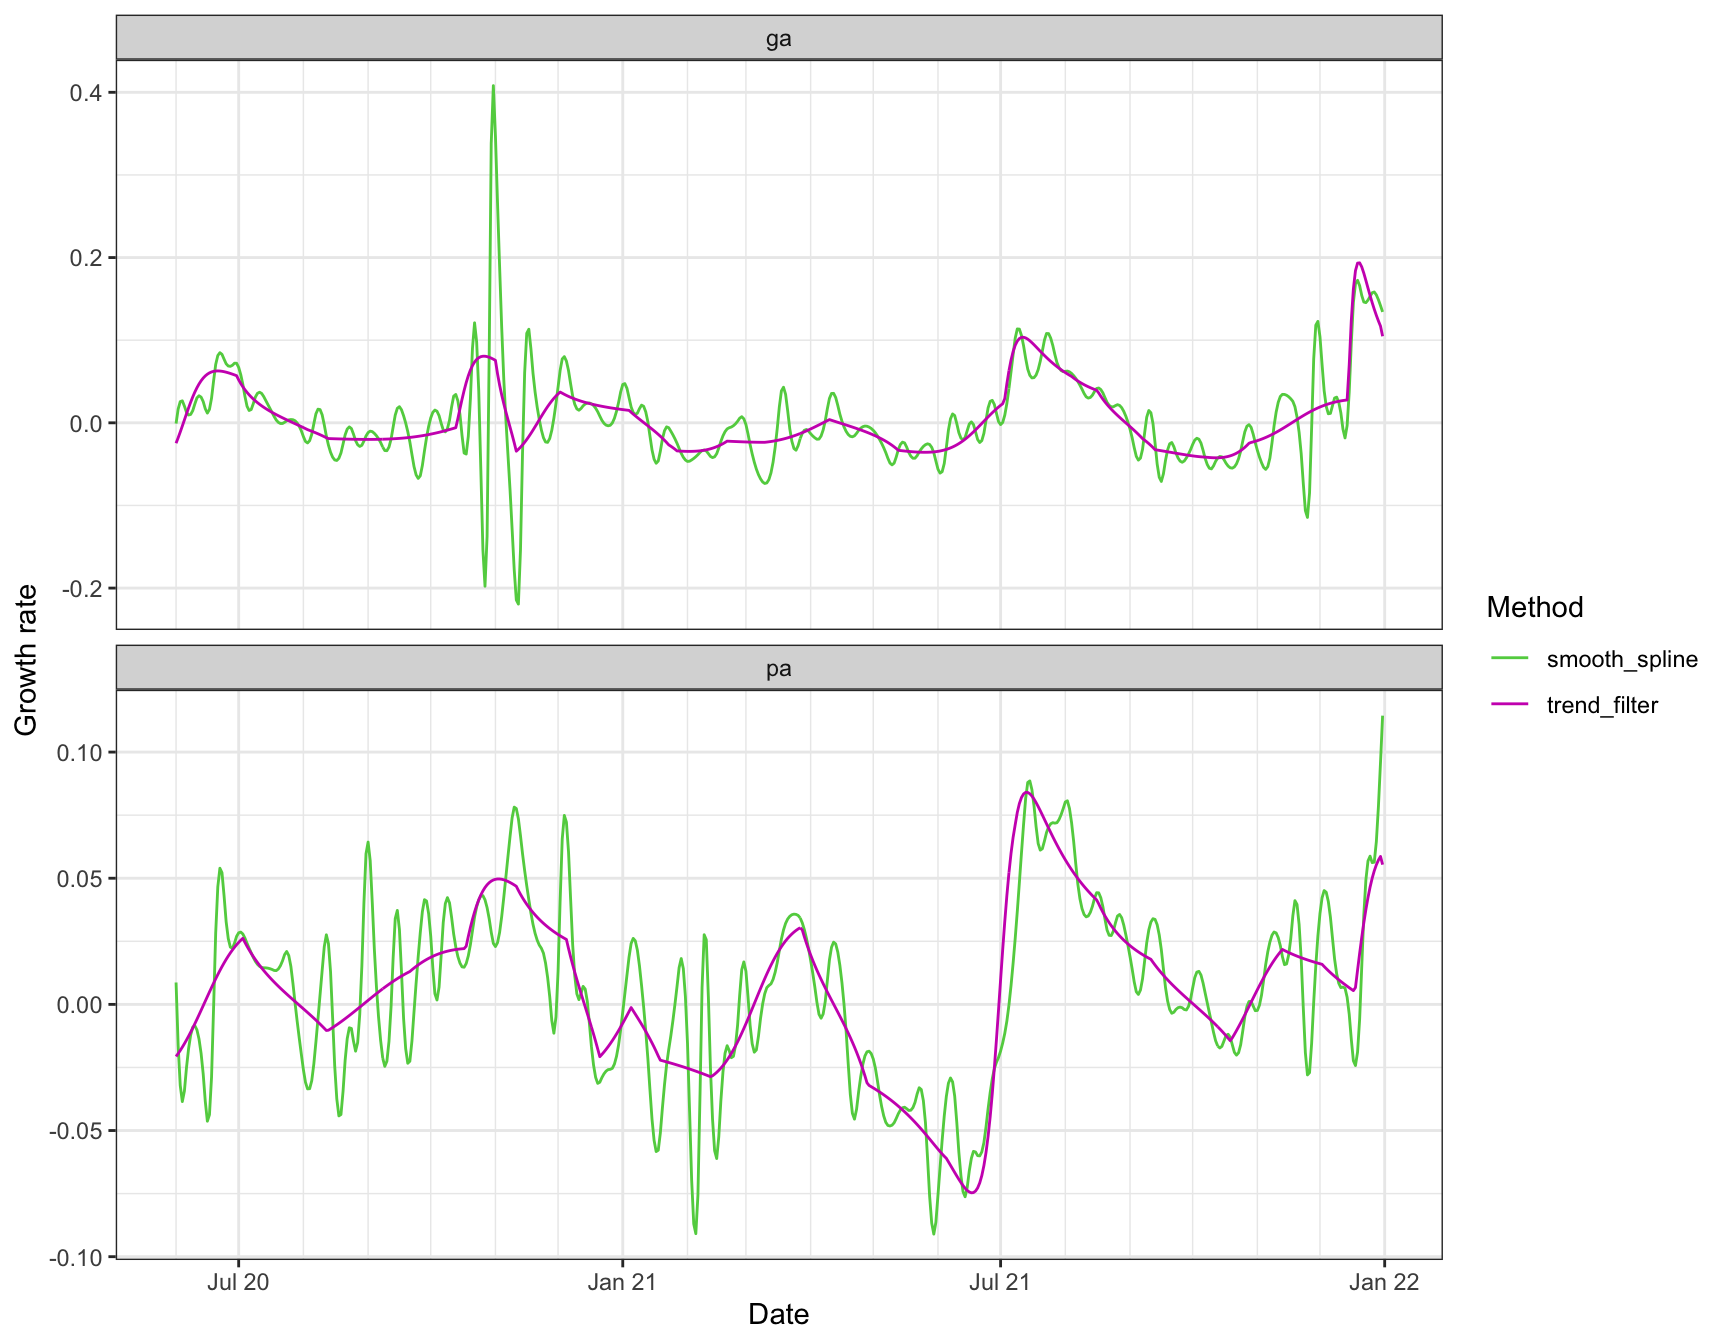
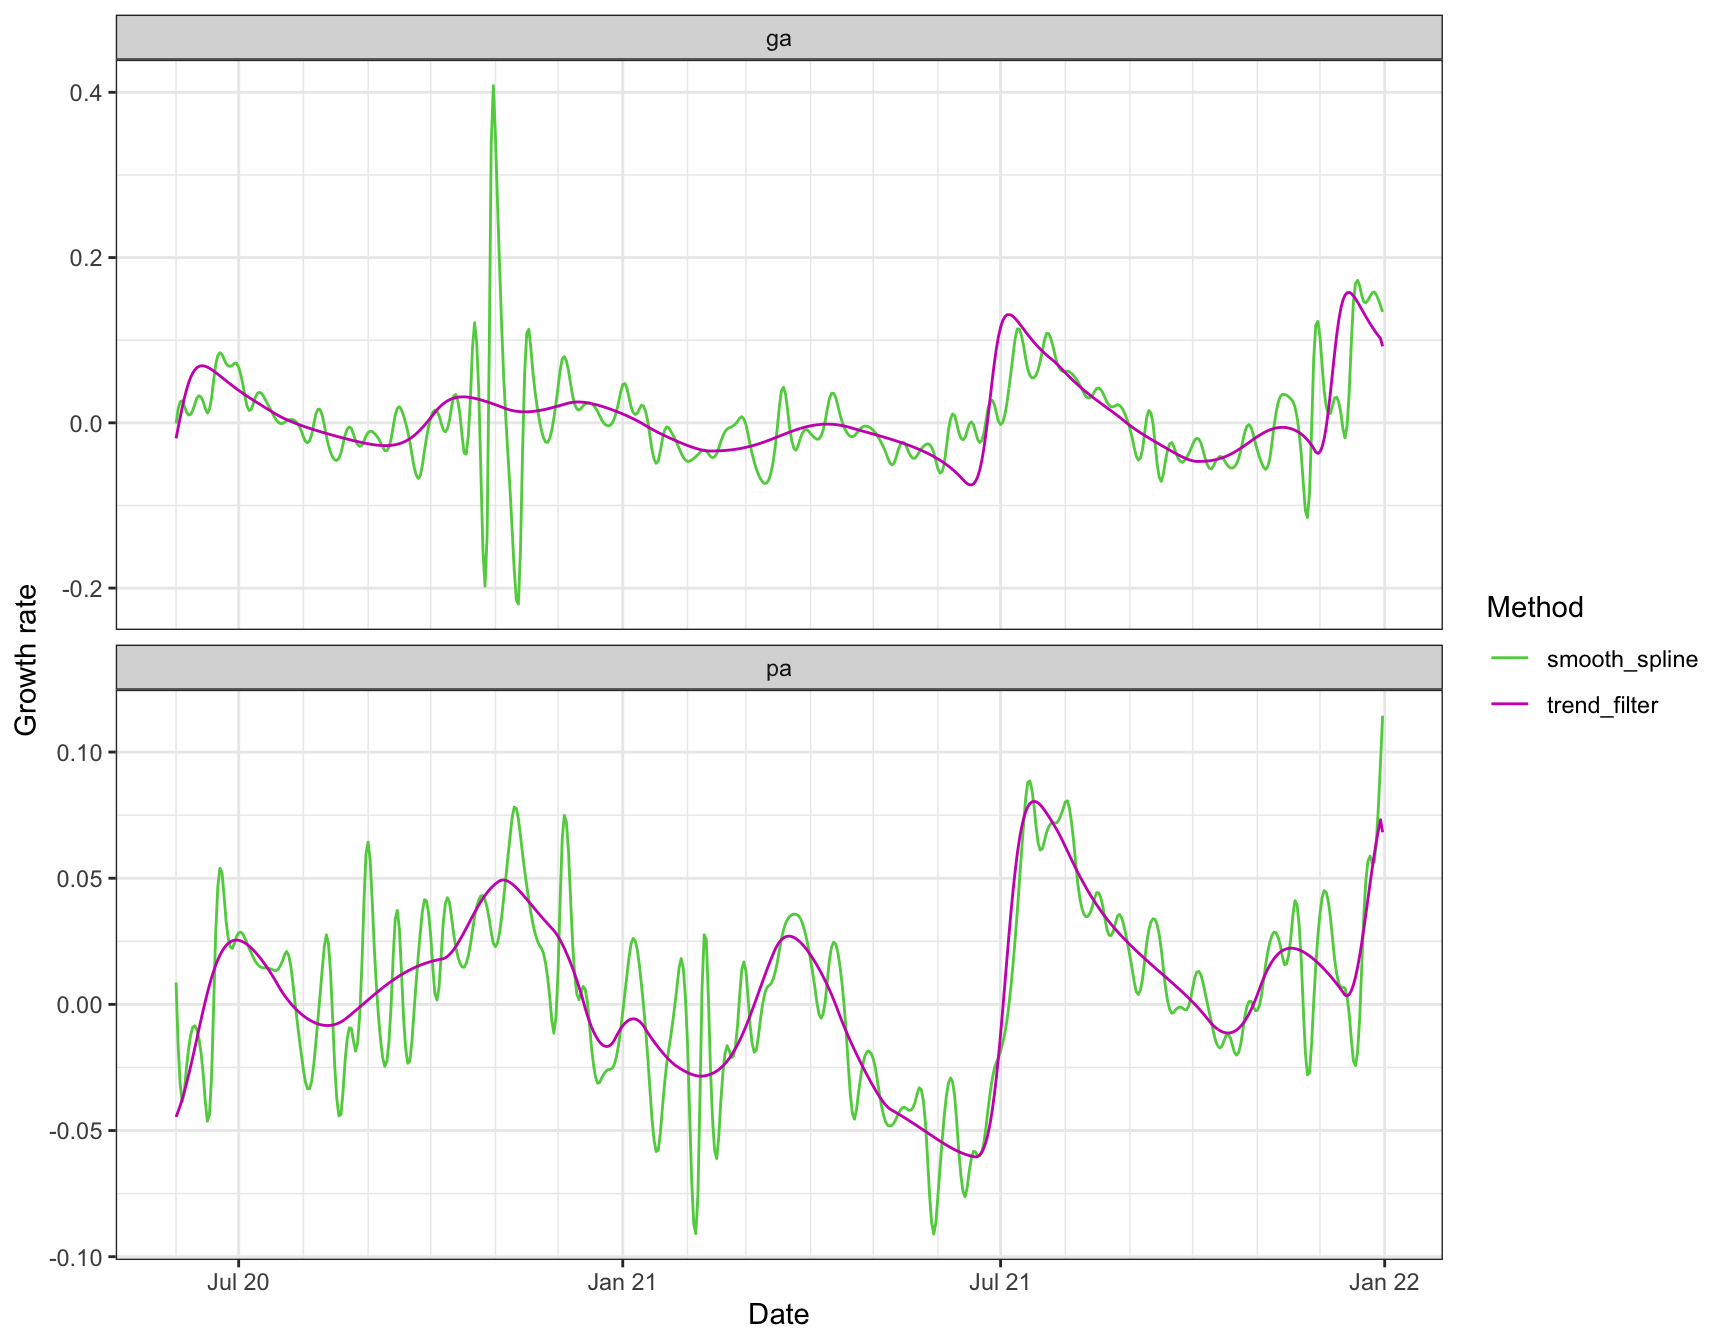
Hotfix to growth rate vignette

diff --git a/docs/articles/outliers.html b/docs/articles/outliers.html
@@ -104,7 +104,7 @@
 
     
     
-<p>This vignette describes functionality for detecting and correcting outliers in signals in the <code><a href="https://rdrr.io/pkg/epiprocess/man/detect_outlr.html">detect_outlr()</a></code> and <code>correct_outlr()</code> functions provided in the <code>epiprocess</code> package. These functions is designed to be modular and extendable, so that you can define your own outlier detection and correction routines and apply them to <code>epi_df</code> objects. We’ll demonstrate this using state-level daily reported COVID-19 case counts from FL and NJ.</p>
+<p>This vignette describes functionality for detecting and correcting outliers in signals in the <code><a href="../reference/detect_outlr.html">detect_outlr()</a></code> and <code>correct_outlr()</code> functions provided in the <code>epiprocess</code> package. These functions is designed to be modular and extendable, so that you can define your own outlier detection and correction routines and apply them to <code>epi_df</code> objects. We’ll demonstrate this using state-level daily reported COVID-19 case counts from FL and NJ.</p>
 <div class="sourceCode" id="cb1"><html><body><pre class="r"><span class="fu"><a href="https://rdrr.io/r/base/library.html">library</a></span>(<span class="no">covidcast</span>)
 <span class="fu"><a href="https://rdrr.io/r/base/library.html">library</a></span>(<span class="no">epiprocess</span>)
 <span class="fu"><a href="https://rdrr.io/r/base/library.html">library</a></span>(<span class="no">dplyr</span>)
@@ -133,13 +133,13 @@
 <div id="outlier-detection" class="section level2">
 <h2 class="hasAnchor">
 <a href="#outlier-detection" class="anchor"></a>Outlier detection</h2>
-<p>The <code><a href="https://rdrr.io/pkg/epiprocess/man/detect_outlr.html">detect_outlr()</a></code> function allows us to run multiple outlier detection methods on a given signal, and then (optionally) combine the results from those methods. Here, we’ll investigate outlier detection results from the following methods.</p>
+<p>The <code><a href="../reference/detect_outlr.html">detect_outlr()</a></code> function allows us to run multiple outlier detection methods on a given signal, and then (optionally) combine the results from those methods. Here, we’ll investigate outlier detection results from the following methods.</p>
 <ol style="list-style-type: decimal">
-<li>Detection based on a rolling median, using <code><a href="https://rdrr.io/pkg/epiprocess/man/detect_outlr_rm.html">detect_outlr_rm()</a></code>, which computes a rolling median on with a default window size of <code>n</code> time points centered at the time point under consideration, and then computes thresholds based on a multiplier times a rolling IQR computed on the residuals.</li>
-<li>Detection based on a seasonal-trend decomposition using LOESS (STL), using <code><a href="https://rdrr.io/pkg/epiprocess/man/detect_outlr_stl.html">detect_outlr_stl()</a></code>, which is similar to the rolling median method but replaces the rolling median with fitted values from STL.</li>
+<li>Detection based on a rolling median, using <code><a href="../reference/detect_outlr_rm.html">detect_outlr_rm()</a></code>, which computes a rolling median on with a default window size of <code>n</code> time points centered at the time point under consideration, and then computes thresholds based on a multiplier times a rolling IQR computed on the residuals.</li>
+<li>Detection based on a seasonal-trend decomposition using LOESS (STL), using <code><a href="../reference/detect_outlr_stl.html">detect_outlr_stl()</a></code>, which is similar to the rolling median method but replaces the rolling median with fitted values from STL.</li>
 <li>Detection based on an STL decomposition, but without seasonality term, which amounts to smoothing using LOESS.</li>
 </ol>
-<p>The outlier detection methods are specified using a <code>tibble</code> that is passed to <code><a href="https://rdrr.io/pkg/epiprocess/man/detect_outlr.html">detect_outlr()</a></code>, with one row per method, and whose columms specify the outlier detection function, any input arguments (only nondefault values need to be supplied), and an abbreviated name for the method used in tracking results. Abbreviations “rm” and “stl” can be used for the built-in detection functions <code><a href="https://rdrr.io/pkg/epiprocess/man/detect_outlr_rm.html">detect_outlr_rm()</a></code> and <code><a href="https://rdrr.io/pkg/epiprocess/man/detect_outlr_stl.html">detect_outlr_stl()</a></code>, respectively.</p>
+<p>The outlier detection methods are specified using a <code>tibble</code> that is passed to <code><a href="../reference/detect_outlr.html">detect_outlr()</a></code>, with one row per method, and whose columms specify the outlier detection function, any input arguments (only nondefault values need to be supplied), and an abbreviated name for the method used in tracking results. Abbreviations “rm” and “stl” can be used for the built-in detection functions <code><a href="../reference/detect_outlr_rm.html">detect_outlr_rm()</a></code> and <code><a href="../reference/detect_outlr_stl.html">detect_outlr_stl()</a></code>, respectively.</p>
 <div class="sourceCode" id="cb2"><html><body><pre class="r"><span class="no">detection_methods</span> <span class="kw">=</span> <span class="fu"><a href="https://dplyr.tidyverse.org/reference/bind.html">bind_rows</a></span>(
   <span class="fu"><a href="https://dplyr.tidyverse.org/reference/reexports.html">tibble</a></span>(<span class="kw">method</span> <span class="kw">=</span> <span class="st">"rm"</span>,
          <span class="kw">args</span> <span class="kw">=</span> <span class="fu"><a href="https://rdrr.io/r/base/list.html">list</a></span>(<span class="fu"><a href="https://rdrr.io/r/base/list.html">list</a></span>(<span class="kw">detect_negatives</span> <span class="kw">=</span> <span class="fl">TRUE</span>,
@@ -165,7 +165,7 @@
 <p>Additionally, we’ll form combined lower and upper thresholds, calculated as the median of the lower and upper thresholds from the methods at each time point. Note that using this combined median threshold is equivalent to using a majority vote across the base methods to determine whether a value is an outlier.</p>
 <div class="sourceCode" id="cb4"><html><body><pre class="r"><span class="no">x</span> <span class="kw">&lt;-</span> <span class="no">x</span> <span class="kw">%&gt;%</span>
   <span class="fu"><a href="https://dplyr.tidyverse.org/reference/group_by.html">group_by</a></span>(<span class="no">geo_value</span>) <span class="kw">%&gt;%</span>
-  <span class="fu"><a href="https://dplyr.tidyverse.org/reference/mutate.html">mutate</a></span>(<span class="kw">outlier_info</span>  <span class="kw">=</span> <span class="fu"><a href="https://rdrr.io/pkg/epiprocess/man/detect_outlr.html">detect_outlr</a></span>(
+  <span class="fu"><a href="https://dplyr.tidyverse.org/reference/mutate.html">mutate</a></span>(<span class="kw">outlier_info</span>  <span class="kw">=</span> <span class="fu"><a href="../reference/detect_outlr.html">detect_outlr</a></span>(
     <span class="kw">x</span> <span class="kw">=</span> <span class="no">time_value</span>, <span class="kw">y</span> <span class="kw">=</span> <span class="no">cases</span>,
     <span class="kw">methods</span> <span class="kw">=</span> <span class="no">detection_methods</span>,
     <span class="kw">combiner</span> <span class="kw">=</span> <span class="st">"median"</span>)) <span class="kw">%&gt;%</span>

diff --git a/docs/articles/growth_rate.html b/docs/articles/growth_rate.html
@@ -233,7 +233,7 @@
   <span class="fu"><a href="https://ggplot2.tidyverse.org/reference/labs.html">labs</a></span>(<span class="kw">x</span> <span class="kw">=</span> <span class="st">"Date"</span>, <span class="kw">y</span> <span class="kw">=</span> <span class="st">"Growth rate"</span>, <span class="kw">col</span> <span class="kw">=</span> <span class="st">"Method"</span>)</pre></body></html></div>
 <p><img src="growth_rate_files/figure-html/unnamed-chunk-6-1.png" width="864"></p>
 <p>In this particular example, the trend filtering estimates of growth rate appear to be much more stable than those from the smoothing spline, and also much more stable than the estimates from local relative changes and linear regressions.</p>
-<p>The smoothing spline and trend filtering estimators can be tailored in various ways by passing additional arguments <code>...</code> to <code><a href="../reference/growth_rate.html">growth_rate()</a></code>, and you can read the documentation for details.</p>
+<p>The smoothing spline growth rate estimates are based on the default settings in <code><a href="https://rdrr.io/r/stats/smooth.spline.html">stats::smooth.spline()</a></code>, and appear severely under-regularized here. Any of the arguments to <code><a href="https://rdrr.io/r/stats/smooth.spline.html">stats::smooth.spline()</a></code> can be customized by passing them as additional arguments <code>...</code> in the call to <code><a href="../reference/growth_rate.html">growth_rate()</a></code>; similarly, we can also use additional arguments to customize the settings in the underlying trend filtering functions <code><a href="https://rdrr.io/pkg/genlasso/man/trendfilter.html">genlasso::trendfilter()</a></code>, <code><a href="https://rdrr.io/pkg/genlasso/man/cv.trendfilter.html">genlasso::cv.trendfilter()</a></code>, and the documentation for <code><a href="../reference/growth_rate.html">growth_rate()</a></code> gives the full details.</p>
 </div>
 <div id="log-scale-estimation" class="section level2">
 <h2 class="hasAnchor">

diff --git a/docs/reference/detect_outlr_stl.html b/docs/reference/detect_outlr_stl.html
@@ -202,11 +202,11 @@ meaning that no seasonal term will be included in the STL decomposition.</p></td
 
     <p>The STL decomposition is computed using the <code>feasts</code> package. Once
 computed, the outlier detection method is analogous to the rolling median
-method in <code>detect_outlr_rm()</code>, except with the fitted values and residuals
+method in <code><a href='detect_outlr_rm.html'>detect_outlr_rm()</a></code>, except with the fitted values and residuals
 from the STL decomposition taking the place of the rolling median and
 residuals to the rolling median, respectively.</p>
 <p>The last set of arguments, <code>log_transform</code> through <code>replacement_multiplier</code>,
-are exactly as in <code>detect_outlr_rm()</code>; refer to its help file for their
+are exactly as in <code><a href='detect_outlr_rm.html'>detect_outlr_rm()</a></code>; refer to its help file for their
 description.</p>
 
   </div>

diff --git a/docs/index.html b/docs/index.html
@@ -111,7 +111,7 @@
 <p>Functions in the package that operate directly on given variables do not begin with <code>epi</code>. For example:</p>
 <ul>
 <li><p><code><a href="reference/growth_rate.html">growth_rate()</a></code>, for estimating the growth rate of a given signal at given time values, using various methodologies;</p></li>
-<li><p><code>detect_outlr()</code>, for detecting outliers in a given signal over time, using either built-in or custom methodologies.</p></li>
+<li><p><code><a href="reference/detect_outlr.html">detect_outlr()</a></code>, for detecting outliers in a given signal over time, using either built-in or custom methodologies.</p></li>
 </ul>
 </div>
 <div id="epi_archive-full-version-history-of-a-data-set" class="section level2">

diff --git a/docs/reference/growth_rate.html b/docs/reference/growth_rate.html
@@ -278,7 +278,7 @@ as in this function). The trend filtering case works a bit differently:
 here, a custom set of arguments is allowed (which are distributed
 internally to <code><a href='https://rdrr.io/pkg/genlasso/man/trendfilter.html'>genlasso::trendfilter()</a></code> and <code><a href='https://rdrr.io/pkg/genlasso/man/cv.trendfilter.html'>genlasso::cv.trendfilter()</a></code>):</p><ul>
 <li><p><code>ord</code>: order of piecewise polynomial for the trend filtering fit. Default
-is 2.</p></li>
+is 3.</p></li>
 <li><p><code>maxsteps</code>: maximum number of steps to take in the solution path before
 terminating. Default is 1000.</p></li>
 <li><p><code>cv</code>: should cross-validation be used to choose an effective degrees of

diff --git a/docs/reference/detect_outlr.html b/docs/reference/detect_outlr.html
@@ -210,8 +210,8 @@ for what would be considered an outlier, and a posited replacement value,
 respectively.</p>
 <p>For convenience, the outlier detection method can be specified (in the
 <code>method</code> column of <code>methods</code>) by a string "rm", shorthand for
-<code>detect_outlr_rm()</code>, which detects outliers via a rolling median; or by
-"stl", shorthand for <code>detect_outlr_stl()</code>, which detects outliers via an
+<code><a href='detect_outlr_rm.html'>detect_outlr_rm()</a></code>, which detects outliers via a rolling median; or by
+"stl", shorthand for <code><a href='detect_outlr_stl.html'>detect_outlr_stl()</a></code>, which detects outliers via an
 STL decomposition.</p>
 
   </div>

diff --git a/docs/articles/aggregation.html b/docs/articles/aggregation.html
@@ -278,7 +278,7 @@
 <pre><code>## An `epi_df` object, with metadata:
 ## * geo_type  = nation
 ## * time_type = day
-## * as_of     = 2022-02-12 17:12:22
+## * as_of     = 2022-02-12 20:21:49
 ## 
 ## # A tibble: 4 × 4
 ## # Groups:   geo_value [1]
@@ -298,7 +298,7 @@
 <pre><code>## An `epi_df` object, with metadata:
 ## * geo_type  = nation
 ## * time_type = day
-## * as_of     = 2022-02-12 17:12:22
+## * as_of     = 2022-02-12 20:21:49
 ## 
 ## # A tibble: 7 × 4
 ## # Groups:   geo_value [1]

diff --git a/docs/articles/epiprocess.html b/docs/articles/epiprocess.html
@@ -237,7 +237,7 @@
 <pre><code>## An `epi_df` object, with metadata:
 ## * geo_type  = nation
 ## * time_type = day
-## * as_of     = 2022-02-12 17:12:53
+## * as_of     = 2022-02-12 20:22:25
 ## 
 ## # A tibble: 6 × 6
 ##   geo_value time_value cases_travel cases_household cases_healthcare cases_other
